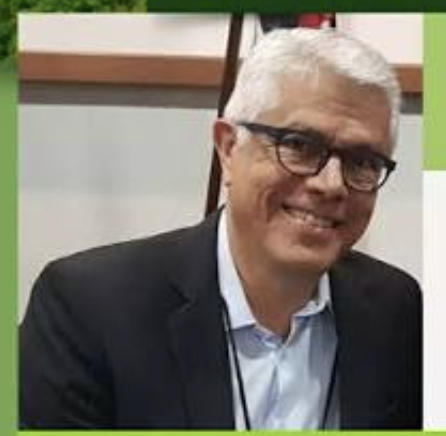
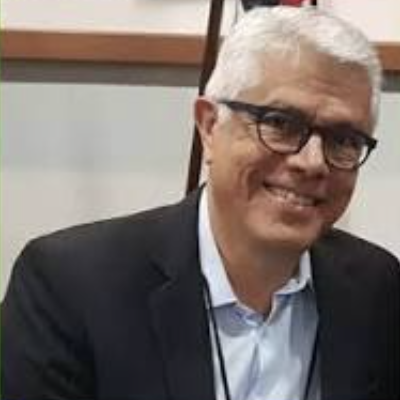
feat: fracionar ementa do dia 7 e ajustar caminhos de imagens do dia 6

diff --git a/index.html b/index.html
@@ -241,7 +241,7 @@
                 <h4>Cidadania Fiscal, Transformação Digital e Acesso a Direitos na Amazônia</h4>
                 <p>Tributação, desenvolvimento econômico, cidadania fiscal e combate à informalidade na perspectiva da Receita.</p>
                 <div class="painel-speaker has-image">
-                  <img src="paineis/06-08/andreia.jpeg" alt="Andreia Ribeiro" class="speaker-img" loading="lazy">
+                  <img src="paineis/06-08/painel 1.jpeg" alt="Andreia Ribeiro" class="speaker-img" loading="lazy">
                   <div class="speaker-details">
                     <span class="speaker-name">Andreia Ribeiro — Palestrante</span>
                     <span class="speaker-role">Eixo sugerido: Tributação, desenvolvimento econômico, cidadania fiscal e combate à informalidade</span>
@@ -256,7 +256,7 @@
                 <h4>Controle Externo, Governança e Políticas Públicas na Amazônia</h4>
                 <p>O papel do TCE/PA no fortalecimento da gestão pública regional, com foco em transparência, governança e efetividade das políticas públicas.</p>
                 <div class="painel-speaker has-image">
-                  <img src="paineis/06-08/rafael.jpg" alt="Rafael Larêdo" class="speaker-img" loading="lazy">
+                  <img src="paineis/06-08/painel 2.jpg" alt="Rafael Larêdo" class="speaker-img" loading="lazy">
                   <div class="speaker-details">
                     <span class="speaker-name">Rafael Larêdo — Palestrante</span>
                     <span class="speaker-role">Auditor do TCEPA • Professor Doutor em Administração Pública • Especialista em Gestão e Direito Público • Ampla experiência em licitações e contratos</span>
@@ -271,7 +271,7 @@
                 <h4>Mediando debates institucionais sobre o Direito na Amazônia</h4>
                 <p>Presença do advogado Antônio Gomes como mediador, com forte atuação em direito constitucional, licitações e contratos.</p>
                 <div class="painel-speaker has-image">
-                  <img src="paineis/07-08/antonio.jpeg" alt="Antônio Gomes" class="speaker-img" loading="lazy">
+                  <img src="paineis/06-08/mediador.jpeg" alt="Antônio Gomes" class="speaker-img" loading="lazy">
                   <div class="speaker-details">
                     <span class="speaker-name">Adv. Antônio Gomes — Mediador</span>
                     <span class="speaker-role">Advogado, professor, palestrante, especialista em Constitucional pela UNISUL, especialista em Licitação e Contratos pelo IPOG, mestre em Tributário pela UCA. Diretor-Tesoureiro da OAB/PA desde 2022.</span>
@@ -300,20 +300,60 @@
  
             <div class="painel-item">
               <div class="painel-info">
-                <span class="painel-info-tag tag-climatico">Painel Especial</span>
-                <h4>Direito Climático na Amazônia Oriental: litigância e crises climáticas no legado pós-COP30</h4>
-                <p>Mesa expositivo-dialogal sobre litigância climática estratégica, a Política Estadual de Mudanças Climáticas e a tutela de direitos diante da emergência ambiental.</p>
+                <span class="painel-info-tag tag-climatico">Painel: Direito Climático</span>
+                <h4>Atuação federal, litigância estratégica pública e prova climática em ações coletivas</h4>
+                <p>Mesa expositivo-dialogal sobre Direito Climático na Amazônia Oriental: litigância e crises climáticas no legado pós-COP30.</p>
                 <div class="painel-speaker has-image">
-                  <img src="paineis/07-08/painel 1.png" alt="Painelistas" class="speaker-img" loading="lazy">
+                  <img src="paineis/07-08/painel 3.png" alt="Igor Goettenauer" class="speaker-img" loading="lazy">
                   <div class="speaker-details">
-                    <span class="speaker-name">Mesa: MPF, PGE/PA e Advocacia</span>
-                    <span class="speaker-role">Mediação: OAB Subseção Marabá</span>
+                    <span class="speaker-name">Igor Goettenauer — Palestrante 1 (MPF)</span>
+                    <span class="speaker-role">Foi coordenador-geral da Escola Nacional de Mediação - ENAM, do Ministério da Justiça. Mestre em Direito pela Universidade de Brasília - UnB. Atualmente, ocupando o cargo de Procurador da República.</span>
                   </div>
                 </div>
-                <div style="margin-top:1.25rem;">
-                  <a href="paineis/07-08/Ementa_Painel_Direito_Climatico.pdf" target="_blank" class="btn-pdf-link" style="display:inline-flex; align-items:center; gap:0.5rem; color:var(--teal); font-weight:600; font-size:0.85rem; text-decoration:none;">
-                    📄 Acessar Ementa Completa (PDF)
-                  </a>
+              </div>
+            </div>
+
+            <div class="painel-item">
+              <div class="painel-info">
+                <span class="painel-info-tag tag-climatico">Painel: Direito Climático</span>
+                <h4>Perspectiva do ente federado, Política Estadual de Mudanças Climáticas e REDD+ jurisdicional</h4>
+                <p>Mesa expositivo-dialogal sobre Direito Climático na Amazônia Oriental: litigância e crises climáticas no legado pós-COP30.</p>
+                <div class="painel-speaker has-image">
+                  <img src="paineis/07-08/painel 2.png" alt="Tátilla Brito Pamplona" class="speaker-img" loading="lazy">
+                  <div class="speaker-details">
+                    <span class="speaker-name">Tátilla Brito Pamplona — Palestrante 2 (PGE/PA)</span>
+                    <span class="speaker-role">Procuradora do Estado do Pará desde 2006. Procuradora-Chefe da Procuradoria Fundiária, Ambiental, Minerária e Imobiliária - PFAM na PGE/PA. Presidente da Comissão do Clima e de Crédito de Carbono da OAB Pará. Presidente do Instituto de Direito Climático do Brasil (IDCB). Especialista em Auditoria da Gestão Ambiental pela UFPA. MBA em ESG pelo IBMEC.</span>
+                  </div>
+                </div>
+              </div>
+            </div>
+
+            <div class="painel-item">
+              <div class="painel-info">
+                <span class="painel-info-tag tag-climatico">Painel: Direito Climático</span>
+                <h4>Litigância climática pela sociedade civil, responsabilidade civil climática, ESG e defesa de atingidos</h4>
+                <p>Mesa expositivo-dialogal sobre Direito Climático na Amazônia Oriental: litigância e crises climáticas no legado pós-COP30.</p>
+                <div class="painel-speaker has-image">
+                  <img src="paineis/07-08/painel 1.png" alt="Palestrante a confirmar" class="speaker-img" loading="lazy">
+                  <div class="speaker-details">
+                    <span class="speaker-name">Palestrante a confirmar (Advocacia)</span>
+                    <span class="speaker-role">Palestrante a confirmar</span>
+                  </div>
+                </div>
+              </div>
+            </div>
+
+            <div class="painel-item">
+              <div class="painel-info">
+                <span class="painel-info-tag tag-debate">Mediação</span>
+                <h4>Mediação do debate institucional sobre Direito Climático na Amazônia Oriental</h4>
+                <p>Mesa expositivo-dialogal sobre Direito Climático na Amazônia Oriental: litigância e crises climáticas no legado pós-COP30.</p>
+                <div class="painel-speaker has-image">
+                  <img src="paineis/07-08/mediadora.png" alt="Nicilene Cavalcante" class="speaker-img" loading="lazy">
+                  <div class="speaker-details">
+                    <span class="speaker-name">Nicilene Cavalcante — Mediadora (OAB Subseção Marabá)</span>
+                    <span class="speaker-role">Advogada Especialista em Direito Ambiental e Minerário pela Pontifícia Católica de Minas Gerais – PUC/MG. Atuação especializada em Direito ambiental desde o ano de 2006. Fundadora do Escritório Nicilene Cavalcante Advocacia e Consultoria Ambiental. Membro da Ubaa, Conselheira da OAB/Subseção Marabá/PA. Atual Presidente Comissão de Direito Ambiental da OAB/Subsecao de Marabá/PA.</span>
+                  </div>
                 </div>
               </div>
             </div>